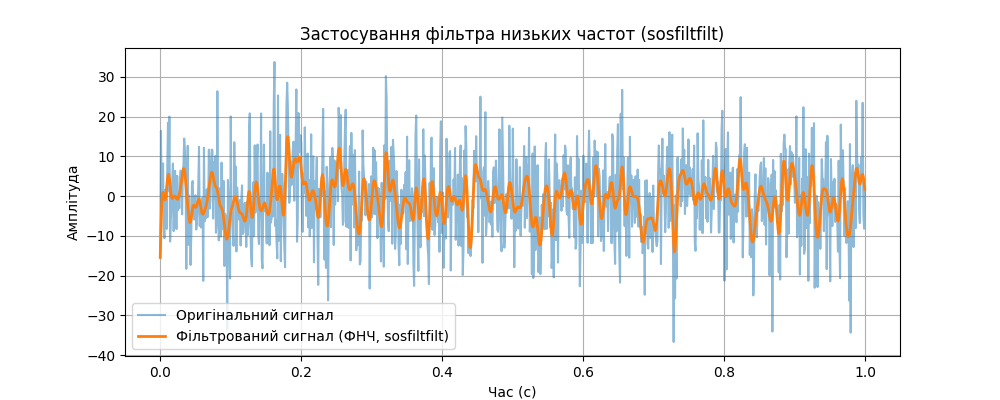
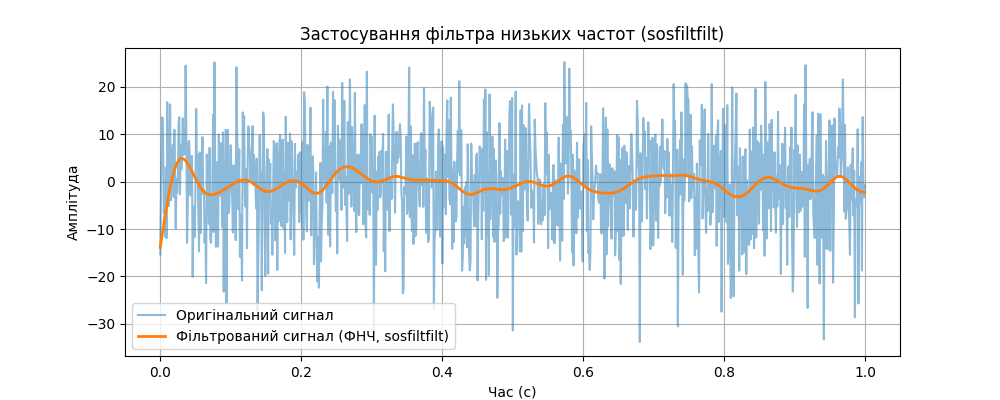
5-st stage

diff --git a/SignalProcessing/SignalProcessing.py b/SignalProcessing/SignalProcessing.py
@@ -8,13 +8,13 @@ a = 0      # Середнє значення
 b = 10     # Стандартне відхилення
 n = 1000   # Кількість точок
 Fs = 1000  # Частота дискретизації (Гц)
-F_max = 100  # Максимальна частота сигналу (Гц)
+F_max = 15  # Максимальна частота сигналу (Гц)
 
 # Генерація випадкового сигналу
 signal_data = np.random.normal(a, b, n)
 
 # Визначення часу
-time = np.arange(n) / Fs
+time_values = np.arange(n) / Fs
 
 # Нормування частоти
 w = F_max / (Fs / 2)
@@ -29,10 +29,10 @@ filtered_signal = signal.sosfiltfilt(sos, signal_data)
 figures_dir = "SignalProcessing/figures"
 os.makedirs(figures_dir, exist_ok=True)
 
-# Побудова графіка
+# Побудова графіка з оригінальним і фільтрованим сигналами
 plt.figure(figsize=(10, 4))
-plt.plot(time, signal_data, label="Оригінальний сигнал", alpha=0.5)
-plt.plot(time, filtered_signal, label="Фільтрований сигнал (ФНЧ, sosfiltfilt)", linewidth=2)
+plt.plot(time_values, signal_data, label="Оригінальний сигнал", alpha=0.5)
+plt.plot(time_values, filtered_signal, label="Фільтрований сигнал (ФНЧ, sosfiltfilt)", linewidth=2)
 plt.xlabel("Час (с)")
 plt.ylabel("Амплітуда")
 plt.title("Застосування фільтра низьких частот (sosfiltfilt)")
@@ -40,3 +40,38 @@ plt.legend()
 plt.grid()
 plt.savefig(os.path.join(figures_dir, "filtered_signal_filtfilt.png"))  # Збереження графіка
 plt.show()
+
+
+# Функція для побудови графіка в потрібному форматі
+def plot_signal(x, y, title, xlabel, ylabel):
+    # Створюємо папку, якщо вона не існує
+    save_dir = "./figures"
+    os.makedirs(save_dir, exist_ok=True)
+    save_path = f"{save_dir}/{title}.png"
+
+    # Створення фігури та осей з необхідними розмірами
+    fig, ax = plt.subplots(figsize=(21 / 2.54, 14 / 2.54))  # 21 см × 14 см
+
+    # Побудова графіка
+    ax.plot(x, y, linewidth=1, color='tab:blue')  # Колір і товщина лінії
+
+    # Додавання підписів
+    ax.set_xlabel(xlabel, fontsize=14)
+    ax.set_ylabel(ylabel, fontsize=14)
+    plt.title(title, fontsize=14)
+
+    # Додавання сітки у стилі зразка
+    ax.grid(True, linestyle='--', linewidth=0.5, alpha=0.7)
+
+    # Збереження графіка
+    fig.savefig(save_path, dpi=600)
+
+    # Відображення графіка
+    plt.show()
+
+
+# Побудова графіка тільки для фільтрованого сигналу
+plot_signal(time_values, filtered_signal,
+            "Сигнал з максимальною частотою F_max = 15 Гц",
+            "Час (секунди)",
+            "Амплітуда сигналу")
